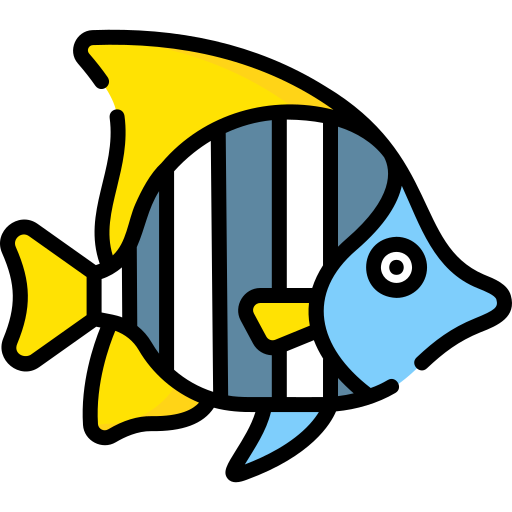
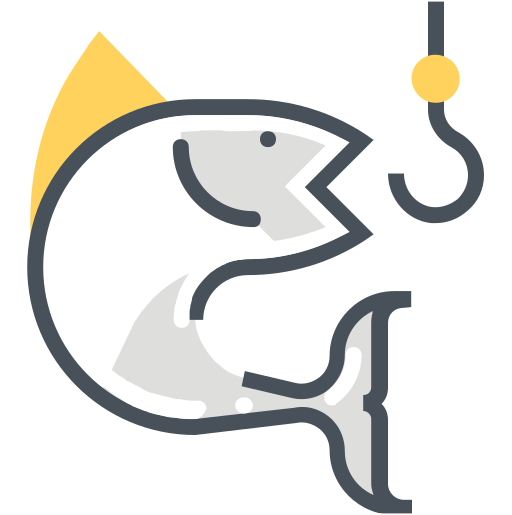
LexikonBilder

diff --git a/frontend/src/pages/fishData.ts b/frontend/src/pages/fishData.ts
@@ -18,7 +18,7 @@ export const FISCH_LEXIKON: FishInfo[] = [
     closedSeason: "15.02. - 30.04.",
     bestBaits: "Gummifisch, Blinker, Wobbler, Köderfisch",
     tips: "Steht oft an Krautkanten und Unterständen. Im Frühjahr flach fischen!",
-    image: "https://wikimedia.org",
+    image: "/fische/Hecht.jpg",
     category: "Raubfisch",
   },
   {
@@ -27,7 +27,7 @@ export const FISCH_LEXIKON: FishInfo[] = [
     closedSeason: "15.03. - 31.05.",
     bestBaits: "No-Action-Shads, Gummifisch, Schlanke Wobbler",
     tips: "Lichtscheuer Jäger. Beste Beißzeit in der Dämmerung und Nacht an Steinpackungen.",
-    image: "https://wikimedia.org",
+    image: "/fische/Zander.jpg",
     category: "Raubfisch",
   },
   {
@@ -36,7 +36,7 @@ export const FISCH_LEXIKON: FishInfo[] = [
     closedSeason: "Keine",
     bestBaits: "Kleine Gummifische, Spinner, Tauwurm, Drop-Shot",
     tips: "Sucht Strukturen wie Brückenpfeiler oder versunkene Bäume. Häufig im dichten Schwarm!",
-    image: "https://wikimedia.org",
+    image: "/fische/Flussbarsch.jpg",
     category: "Raubfisch",
   },
   {
@@ -45,7 +45,7 @@ export const FISCH_LEXIKON: FishInfo[] = [
     closedSeason: "Regional (oft keine)",
     bestBaits: "Tauwurmbündel, Tintenfisch, Großer Köderfisch",
     tips: "Unser größter Raubfisch. Beißt besonders gut in warmen Sommernächten und bei Hochwasser.",
-    image: "https://wikimedia.org",
+    image: "/fische/Wels.jpg",
     category: "Raubfisch",
   },
   {
@@ -54,7 +54,7 @@ export const FISCH_LEXIKON: FishInfo[] = [
     closedSeason: "01.04. - 31.05.",
     bestBaits: "Topwater-Körper, Schnell geführte Wobbler und Blinker",
     tips: "Raubt extrem spektakulär an der Oberfläche in harten Strömungskanten und Wehrschüssen.",
-    image: "https://wikimedia.org",
+    image: "/fische/Rappfen.jpg",
     category: "Raubfisch",
   },
   {
@@ -63,7 +63,7 @@ export const FISCH_LEXIKON: FishInfo[] = [
     closedSeason: "Regional (oft Herbst/Winter)",
     bestBaits: "Tauwurm, Mistwurm, Köderfisch, Fischfetzen",
     tips: "Nachtaktiver Grundräuber. Sucht Deckung unter Ufergehölz. Feine Grundmontagen nutzen.",
-    image: "https://wikimedia.org",
+    image: "/fische/Aal.jpg",
     category: "Raubfisch",
   },
   {
@@ -72,7 +72,7 @@ export const FISCH_LEXIKON: FishInfo[] = [
     closedSeason: "Keine",
     bestBaits: "Kirschen, Brotflocke, Spinner, kleine Wobbler",
     tips: "Extrem misstrauisch. Perfekt für die Pirsch im Sommer mit Schwimmbrot an der Oberfläche.",
-    image: "https://wikimedia.org",
+    image: "/fische/Doebel.jpg",
     category: "Raubfisch",
   },
   // ==========================================================================
@@ -84,7 +84,7 @@ export const FISCH_LEXIKON: FishInfo[] = [
     closedSeason: "Keine",
     bestBaits: "Boilies, Pellets, Dosenmais, Tigerbrot, Hartmais",
     tips: "Ausgiebiges Vorfüttern über mehrere Tage steigert die Chancen massiv. Krautnahe Plätze suchen!",
-    image: "https://unsplash.com",
+    image: "/fische/Karpfen.jpg",
     category: "Friedfisch",
   },
   {
@@ -93,7 +93,7 @@ export const FISCH_LEXIKON: FishInfo[] = [
     closedSeason: "01.05. - 30.06. (Regional)",
     bestBaits: "Mistwurmbündel, Maden, Mais, Mini-Boilies",
     tips: "Der 'Geist des Krautgartens'. Beißt extrem vorsichtig in krautreichen, schlammigen Uferzonen.",
-    image: "https://wikimedia.org",
+    image: "/fische/Schleie.jpg",
     category: "Friedfisch",
   },
   {
@@ -102,7 +102,7 @@ export const FISCH_LEXIKON: FishInfo[] = [
     closedSeason: "Keine",
     bestBaits: "Maden, Casters, Mistwurm, Futterkorb-Mix",
     tips: "Zieht im Schwarm über den Gewässergrund. Perfekt fürs Match- und Feederangeln.",
-    image: "https://wikimedia.org",
+    image: "/fische/Brachse.jpg",
     category: "Friedfisch",
   },
   {
@@ -111,7 +111,7 @@ export const FISCH_LEXIKON: FishInfo[] = [
     closedSeason: "Keine",
     bestBaits: "Maden, Hanf, Brot, Pinkies",
     tips: "Der am häufigsten vorkommende Friedfisch. Beißt das ganze Jahr über auf feine Posenmontagen.",
-    image: "https://wikimedia.org",
+    image: "/fische/Rotauge.jpg",
     category: "Friedfisch",
   },
   {
@@ -120,7 +120,7 @@ export const FISCH_LEXIKON: FishInfo[] = [
     closedSeason: "Keine",
     bestBaits: "Maden, Brotflocke, Fliegen",
     tips: "Steht im Gegensatz zum Rotauge meist oberflächennah in dichten Seerosenfeldern.",
-    image: "https://wikimedia.org",
+    image: "/fische/Rotfeder.jpg",
     category: "Friedfisch",
   },
   {
@@ -129,7 +129,7 @@ export const FISCH_LEXIKON: FishInfo[] = [
     closedSeason: "01.05. - 15.06.",
     bestBaits: "Käse (z.B. Gouda), Frühstücksfleisch, Maden, Pellets",
     tips: "Starker Kämpfer in der harten Flussströmung. Grundblei- oder Feedermontage flussaufwärts fischen.",
-    image: "https://wikimedia.org",
+    image: "/fische/Barbe.jpg",
     category: "Friedfisch",
   },
   {
@@ -138,7 +138,7 @@ export const FISCH_LEXIKON: FishInfo[] = [
     closedSeason: "Keine",
     bestBaits: "Schwimmbrot, Mais, Kirschen, Salatblätter",
     tips: "Wurde zur Krautbekämpfung eingesetzt. Liefert explosive, extrem harte Drills am Ufer.",
-    image: "https://wikimedia.org",
+    image: "/fische/Graskarpfen.jpg",
     category: "Friedfisch",
   },
   {
@@ -147,7 +147,7 @@ export const FISCH_LEXIKON: FishInfo[] = [
     closedSeason: "01.03. - 30.04.",
     bestBaits: "Maden, Algenflocken, Brot",
     tips: "Typischer Flussfisch, der mit seinem harten Maul Algen von Steinen schabt. Oft geschützt.",
-    image: "https://wikimedia.org",
+    image: "/fische/Nase.jpg",
     category: "Friedfisch",
   },
   // ==========================================================================
@@ -159,7 +159,7 @@ export const FISCH_LEXIKON: FishInfo[] = [
     closedSeason: "01.10. - 28.02.",
     bestBaits: "Kleine Spinner, Spoons, Wobbler, Trockenfliege, Nymphe",
     tips: "Standorttreu in schnellen Bächen. Sucht Unterstände unter Steinen und Prallufern. Vorsichtig anpirschen!",
-    image: "https://wikimedia.org",
+    image: "/fische/Bachforelle.jpg",
     category: "Salmonide",
   },
   {
@@ -168,7 +168,7 @@ export const FISCH_LEXIKON: FishInfo[] = [
     closedSeason: "Regional (oft Winter)",
     bestBaits: "Forellenteig, Spoons, kleine Spinner, Fliegen",
     tips: "Kampfstarker Import aus Amerika. Jagt agiler im Freiwasser als die Bachforelle.",
-    image: "https://wikimedia.org",
+    image: "/fische/Regenbogenforelle.jpg",
     category: "Salmonide",
   },
   {
@@ -177,7 +177,7 @@ export const FISCH_LEXIKON: FishInfo[] = [
     closedSeason: "01.03. - 30.04.",
     bestBaits: "Trockenfliege, Nymphe, kleine künstliche Fliegen",
     tips: "Erkennbar an der riesigen Rückenflosse (Fahne). Extrem empfindlich gegenüber Gewässerverschmutzung.",
-    image: "https://wikimedia.org",
+    image: "/fische/Aesche.jpg",
     category: "Salmonide",
   },
   {
@@ -186,7 +186,7 @@ export const FISCH_LEXIKON: FishInfo[] = [
     closedSeason: "01.10. - 28.02.",
     bestBaits: "Kleine Blinker, Kunstfliegen, Maden",
     tips: "Wunderschön gefärbter Fisch. Liebt eiskaltes, glasklares und tiefes Quellwasser.",
-    image: "https://wikimedia.org",
+    image: "/fische/Saibling.jpg",
     category: "Salmonide",
   },
 
@@ -199,7 +199,7 @@ export const FISCH_LEXIKON: FishInfo[] = [
     closedSeason: "Regional schwankend (Bag-Limit beachten!)",
     bestBaits: "Gummifisch, Pilker, Wattwurm (beim Brandungsangeln)",
     tips: "Der König der Ostsee. Sucht krautige Mischgründe ('Leopardengrund'). Bestände aktuell stark geschützt.",
-    image: "https://wikimedia.org",
+    image: "/fische/Hecht.jpg",
     category: "Meeresfisch",
   },
   {
@@ -208,7 +208,7 @@ export const FISCH_LEXIKON: FishInfo[] = [
     closedSeason: "01.10. - 31.12. (Küste)",
     bestBaits: "Schlanke Blinker, Sandaal-Imitate, Meerforellenfliegen",
     tips: "Der 'Fisch der 1000 Würfe'. Wate im Frühjahr und Herbst ausgiebig an den Stränden der Ostsee.",
-    image: "https://wikimedia.org",
+    image: "/fische/Hecht.jpg",
     category: "Meeresfisch",
   },
   {
@@ -217,7 +217,7 @@ export const FISCH_LEXIKON: FishInfo[] = [
     closedSeason: "Keine",
     bestBaits: "Heringsfetzen, Schlanke Blinker, Seeringelwurm",
     tips: "Zieht im Mai ('Wenn der Raps blüht') in riesigen Schwärmen zur Eiablage an die Ostseeküste.",
-    image: "https://wikimedia.org",
+    image: "/fische/Hecht.jpg",
     category: "Meeresfisch",
   },
   {
@@ -226,7 +226,7 @@ export const FISCH_LEXIKON: FishInfo[] = [
     closedSeason: "Keine",
     bestBaits: "Makrelen-Paternoster (Glitzerfliegen), kleine Pilker",
     tips: "Pfeilschneller Ufer- und Bootsschwarmfisch. Zieht im Hochsommer in die Nordsee und in Förden ein.",
-    image: "https://wikimedia.org",
+    image: "/fische/Hecht.jpg",
     category: "Meeresfisch",
   },
   {
@@ -235,7 +235,7 @@ export const FISCH_LEXIKON: FishInfo[] = [
     closedSeason: "Regional (oft Weibchenschutz im Winter)",
     bestBaits: "Wattwurm, Seeringelwurm",
     tips: "Klassisches Brandungsangeln im Herbst bei auflandigem Wind. Suchen den Uferbereich nachts nach Nahrung ab.",
-    image: "https://wikimedia.org",
+    image: "/fische/Hecht.jpg",
     category: "Meeresfisch",
   },
   {
@@ -244,7 +244,7 @@ export const FISCH_LEXIKON: FishInfo[] = [
     closedSeason: "Keine",
     bestBaits: "Herings-Paternoster (Echte Fischhaut-Haken)",
     tips: "Das 'Silber des Meeres'. Zieht im zeitigen Frühjahr zum Laichen in die Häfen (z.B. Kiel, Rostock).",
-    image: "https://wikimedia.org",
+    image: "/fische/Hecht.jpg",
     category: "Meeresfisch",
   },
 ];
